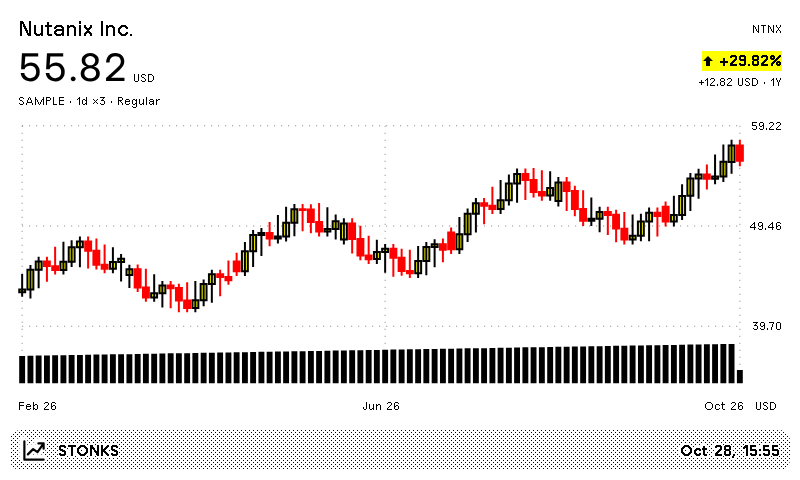
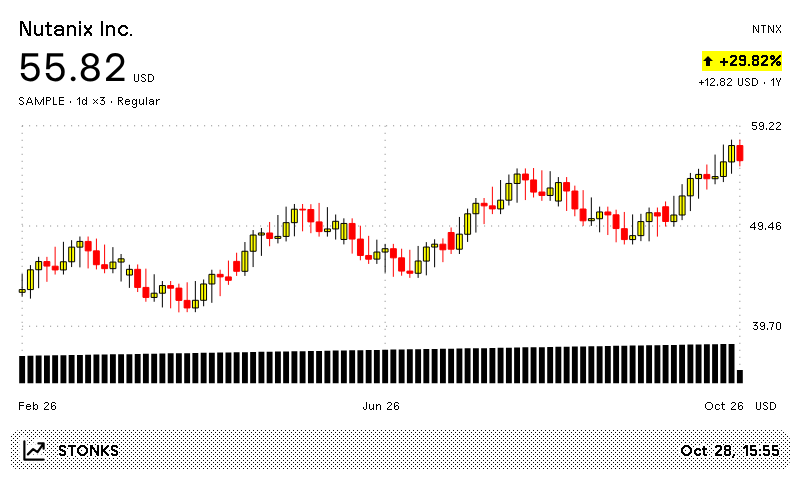
Adapt candle density to available chart space

Changed region(s): [[0.0, 0.2812, 0.9375, 0.6562]]

diff --git a/TRMNL/src/transform.js b/TRMNL/src/transform.js
@@ -286,7 +286,13 @@ function curveSegments(points) {
   return segments;
 }
 
-function chart(state, config, formatNumber) {
+function chart(state, config, formatNumber, limit = 96) {
+  const factor = config.chartType !== 'line' && state.bars.some(b => b[1] !== null) ? Math.max(1, Math.ceil(state.bars.length / limit)) : 1;
+  if (factor > 1) {
+    const bars = [];
+    for (let i = 0; i < state.bars.length; i += factor) bars.push(combine(state.bars.slice(i, i + factor)));
+    state = { ...state, bars, group: state.group * factor };
+  }
   const hasOHLC = state.bars.some(b => b[1] !== null);
   const candles = config.chartType !== 'line' && hasOHLC;
   const values = state.bars.flatMap(b => candles && b[1] !== null ? [b[2], b[3]] : [b[4]]);
@@ -298,8 +304,9 @@ function chart(state, config, formatNumber) {
   const bottom = hasVolume ? 216 : PLOT.bottom;
   const y = p => bottom - (p - min) / (max - min) * (bottom - PLOT.top);
   // Session spacing removes overnight/weekend voids, as a market chart should.
-  const x = i => PLOT.left + i / (state.bars.length - 1) * (PLOT.right - PLOT.left);
-  const width = Math.max(0.8, Math.min(9, 500 / state.bars.length));
+  const width = Math.max(0.8, Math.min(candles ? 18 : 9, 500 / state.bars.length));
+  const inset = candles ? Math.max(PLOT.left, width / 2 + 1) : PLOT.left;
+  const x = i => inset + i / (state.bars.length - 1) * (700 - 2 * inset);
   const points = state.bars.map((b, i) => ({ x: x(i), y: y(b[4]) }));
   const f = n => +n.toFixed(1);
   // Candle coordinates: center, left, right, open, high, low, close, height, change.
@@ -321,7 +328,7 @@ function chart(state, config, formatNumber) {
     body_width: f(width), volume_width: width,
     reference_y: y(state.baseline), last_y: points.at(-1).y,
     ticks: [0, 0.5, 1].map(r => ({ y: PLOT.top + r * (bottom - PLOT.top), label: formatNumber(max - r * (max - min)) })), dates,
-    has_ohlc: hasOHLC, has_volume: hasVolume };
+    has_ohlc: hasOHLC, has_volume: hasVolume, group: state.group };
 }
 
 function display(state, stale, detail, config) {
@@ -339,14 +346,19 @@ function display(state, stale, detail, config) {
     timeZone: state.timezone, day: 'numeric', month: 'short', hour: '2-digit', minute: '2-digit', hourCycle: 'h23', ...options });
   const change = state.price - state.baseline;
   const percent = change / state.baseline * 100;
-  return { ...base, ...chart(state, config, formatter.format), has_data: true, stale, detail, name: state.name, currency: state.currency,
+  const result = { ...base, ...chart(state, config, formatter.format), has_data: true, stale, detail, name: state.name, currency: state.currency,
     price: state.price, change, percent, digits,
     price_label: formatter.format(state.price),
     percent_label: signed(percent, 2),
     absolute_change_label: signed(change, digits),
     market_at: state.market_at, market_iso: date.toISOString(), market_label: marketLabel({ year: 'numeric', timeZoneName: 'short' }), market_label_compact: marketLabel(),
-    native_currency: state.native_currency, return_basis: state.return_basis, group: state.group,
+    native_currency: state.native_currency, return_basis: state.return_basis,
     fx_iso: state.fx_at ? new Date(state.fx_at * 1000).toISOString() : '' };
+  if (config.chartType !== 'line' && result.has_ohlc) result.charts = {
+    compact: { ...result, ...chart(state, config, formatter.format, 32) },
+    detailed: { ...result, ...chart(state, config, formatter.format, 192) }
+  };
+  return result;
 }
 
 // Limit each body before JSON parsing so a provider error page or unexpectedly

diff --git a/TRMNL/README.md b/TRMNL/README.md
@@ -48,7 +48,7 @@ The existing private installation can also be updated through TRMNL MCP. Keep MC
 | Currency | `NATIVE`, available fiat pairs, BTC or ETH |
 | Date range | 1D/minute, 1M/30 minutes, 3M/hour, 1Y/day, 5Y/week, all time/month |
 | Chart type | Line, OHLC bars or candles |
-| Line style and width | Straight, stepped or smooth; 1–5 px strokes |
+| Line style and width | Straight, stepped or smooth; 1–5 px line strokes |
 | Grid, volume, baseline | On/off checkboxes; volume requires provider data |
 | Extended hours | Available intraday pre/post-market bars |
 | Language | English, German, French, Spanish, Italian or Polish |
@@ -62,6 +62,10 @@ Examples: `NTNX`, `VWCE.DE`, `%5ESTOXX50E`, `BTC-USD`, `EURUSD=X`. Some instrume
 For rotation, enter a list such as `NTNX,AAPL,NVDA`. Each data refresh polls one symbol, in order, wrapping to the first after the last. Spaces around entries, empty entries and repeated entries are ignored. One symbol retains the existing behavior. There is no plugin-imposed ticker count limit; normal TRMNL form and runtime limits still apply. Currency, range and chart settings apply to every symbol.
 
 Changing the list or clearing Saved State restarts at the first entry. Rotation follows data refreshes, rather than every playlist appearance or layout render. The refresh interval is the minimum time between eligible updates; actual updates follow TRMNL's device/playlist cadence.
+
+Candles and OHLC bars adapt to the space left after the heading and quote. Chart areas at most 460 CSS px wide or 160 CSS px high use up to 32 bars; other areas use up to 96, rising to 192 when at least 900 × 400 CSS px are available. These are rendered chart-area dimensions, not device names or physical panel pixels. Larger X slots retain more detail while narrow portrait slots can still use the compact chart.
+
+Grouping keeps the whole date range: first open, highest high, lowest low, last close and summed volume. The visible `×N` label reports the grouping actually drawn. Saved history, latest price and return stay unchanged. Candle outlines and OHLC strokes are 1 px; the Line width setting applies to line charts.
 
 ## Templates
 
@@ -107,7 +111,7 @@ TRMNL_BROWSER=chromium node scripts/preview.cjs
 
 These packages are development tools only. The test suite covers market data, FX, saved-state isolation, failures, chart geometry, locales and Liquid rendering. GitHub Actions runs the same checks on `main` pushes and pull requests.
 
-Open `dist/preview/index.html` for sample previews across four device profiles, both orientations, all four layouts and data/customization scenarios. The script runs the pinned Framework JavaScript, including native clamping, with actual fonts, checks computed text sizes, bounds, overlapping text, chart endpoints and palette colors, and caches assets under `.cache/`. Native B/W/R/Y server thumbnails are grayscale; physical ink and dithering require a device check.
+Open `dist/preview/index.html` for sample previews across four device profiles, both orientations, all four layouts and data/customization scenarios. The script runs the pinned Framework JavaScript, including native clamping, with actual fonts, checks chart density, computed text sizes, bounds, overlapping text, chart endpoints and palette colors, and caches assets under `.cache/`. Native B/W/R/Y server thumbnails are grayscale; physical ink and dithering require a device check.
 
 The repository previews are lossless WebP exports of those PNGs. To update one, keep the sample label and existing media filenames:
 
@@ -119,7 +123,7 @@ magick dist/preview/og-landscape-full-fresh.png -define webp:lossless=true TRMNL
 
 The publishing page also shows automated advisory hints. Each layout contains one native `layout` and renders the shared `title_bar` after it. Shared holds reusable components and CSS, so a layout-presence hint on Shared can be reviewed against the rendered views.
 
-Chart positions use SVG coordinates; the templates contain no inline `style` attributes. The scoped stylesheet supplies chart palette tokens and title-bar fitting for narrow slots. Company names and tickers use native `data-clamp="1"`; chart labels and supporting text use native `description` size classes. Layout, spacing and text elements use Framework classes.
+Chart positions use SVG coordinates; the templates contain no inline `style` attributes. The scoped stylesheet supplies chart palette tokens, size-based chart density and title-bar fitting for narrow slots. Company names and tickers use native `data-clamp="1"`; chart labels and supporting text use native `description` size classes. Layout, spacing and text elements use Framework classes.
 
 Stock data is already fetched through the polling URL. Serverless fetches only the exchange-rate pairs required for optional currency conversion; those pairs depend on the currency returned in the stock response. Native-currency charts make no Serverless network requests. FX requests share a 3.8-second deadline, have no retries and preserve a matching saved chart if they fail. TRMNL's [Serverless documentation](https://help.trmnl.com/en/articles/14130649-serverless) permits network requests within its five-second runtime.
 
